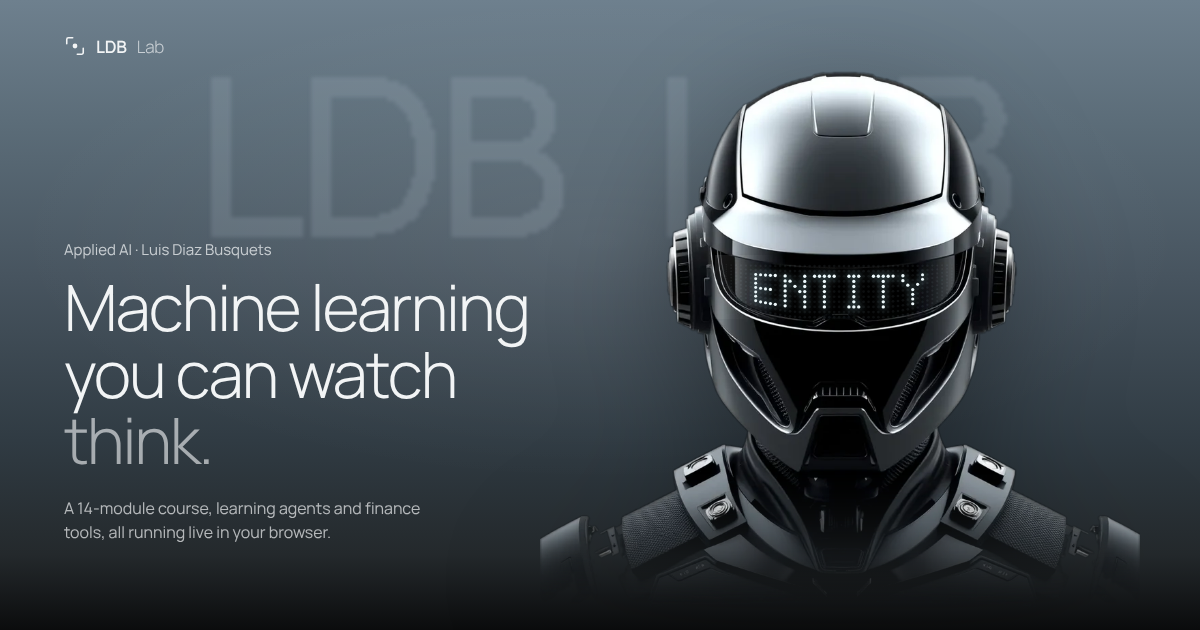
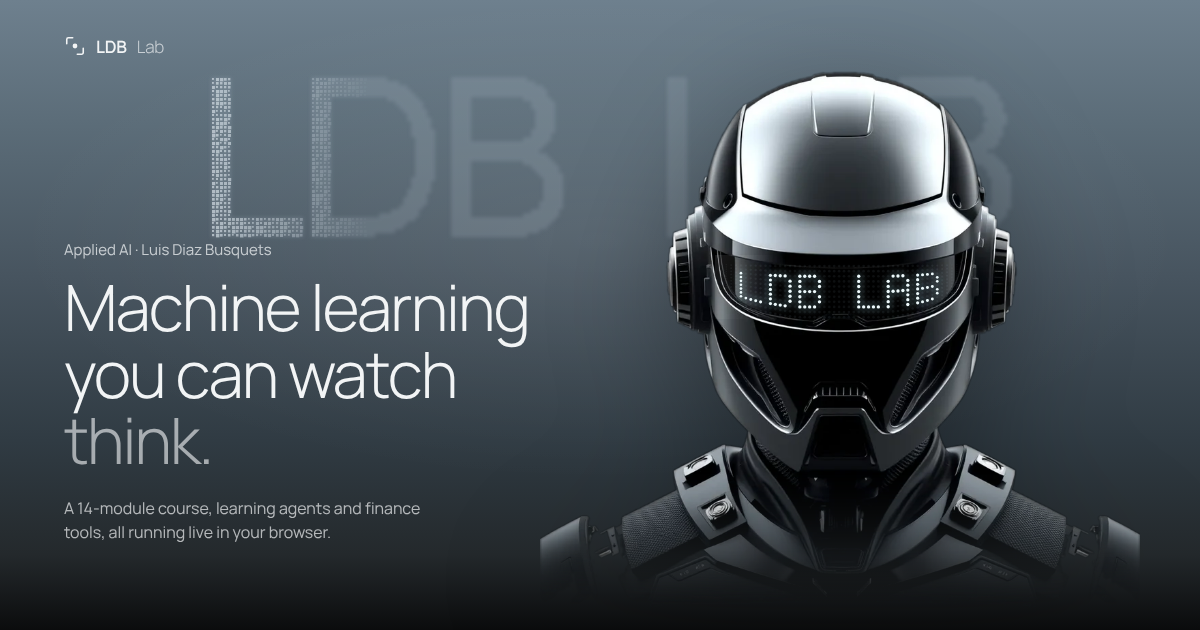
Add files via upload

Changed region(s): [[0.1542, 0.1206, 0.2775, 0.3921], [0.6167, 0.4222, 0.8017, 0.5127]]

diff --git a/index.html b/index.html
@@ -1016,25 +1016,18 @@ var lightQ = { get matches() { return document.documentElement.classList.contain
   }
   function put(c, r, v) { if (c >= 0 && c < COLS && r >= 0 && r < ROWS) { var i = r * COLS + c; if (v > grid[i]) grid[i] = v; } }
   function stamp(cols, c0, r0, v) { for (var i = 0; i < cols.length; i++) for (var r = 0; r < 7; r++) if (cols[i] >> r & 1) put(c0 + i, r0 + r, v); }
-  var WORD = textCols('LDB LAB'), NAME = textCols('ENTITY'), ONL = textCols('ONLINE'), TICK2 = textCols('APPLIED AI \u00b7 MODELS YOU CAN WATCH THINK');
+  var WORD = textCols('LDB LAB'), TICK2 = textCols('APPLIED AI \u00b7 MODELS YOU CAN WATCH THINK');
   function R0() { return Math.floor((ROWS - 7) / 2); }                                   /* text sits on the middle rows */
   var SPD = 26;                                                                          /* ticker speed, columns per second */
   function ticker(cols) { return { d: function () { return (COLS + cols.length) / SPD + .35; }, f: function (t) { stamp(cols, COLS - Math.floor(t * SPD), R0(), 1); } }; }
   /* the scenes, played in a loop; each one runs exactly as long as it needs to finish */
-  /* the intro plays once: ENTITY ONLINE, the name, the tagline, LDB LAB and a wipe; then the visor idles on a slow spectrum */
+  /* the intro plays once: the tagline, LDB LAB and a wipe; then the visor idles on a slow spectrum */
   var IDLE = { d: Infinity, f: function (t) {
       var env = Math.min(1, t * .8);
       for (var c = 0; c < COLS; c++) { var u = c / COLS, h = (.32 + .26 * Math.sin(u * 9 + t * 2.4) * Math.sin(u * 3.3 - t * 1.3) + .2 * Math.sin(u * 23 + t * 5.2)) * ROWS * env;
         for (var r = 0; r < Math.min(ROWS, Math.max(0, h)); r++) put(c, ROWS - 1 - r, r > ROWS * .62 ? 1 : .7); } } };
   var scenes = [
     { d: 1.6, f: function () {} },                                                       /* a beat of dark glass while the helmet fades in */
-    { d: 3.2, f: function (t) {                                                          /* ENTITY types itself in, centred, then holds */
-      var c0 = Math.round((COLS - NAME.length) / 2), shown = Math.min(NAME.length, Math.floor(t * 20));
-      stamp(NAME.slice(0, shown), c0, R0(), Math.min(1, (3.2 - t) * 3));
-      if (shown < NAME.length) for (var r = R0() - 1; r < R0() + 8; r++) put(c0 + shown, r, .9); } },
-    { d: 2.6, f: function (t) {                                                          /* ONLINE flickers on, like a status light */
-      var c0 = Math.round((COLS - ONL.length) / 2), on = t < .8 ? (Math.floor(t * 10) % 2 ? .2 : 1) : 1;
-      stamp(ONL, c0, R0(), on * Math.min(1, (2.6 - t) * 3)); } },
     ticker(TICK2),
     { d: function () { return WORD.length / 22 + 1.8 + 1.7; }, f: function (t) {   /* LDB LAB builds in, holds, then a bar wipes the whole visor left to right */
       var c0 = Math.round((COLS - WORD.length) / 2), shown = Math.min(WORD.length, Math.floor(t * 22)), tb = WORD.length / 22, hold = tb + 1.8;
@@ -1052,7 +1045,7 @@ var lightQ = { get matches() { return document.documentElement.classList.contain
     if (!grid) size();
     if (grid) {
       for (var i = 0; i < grid.length; i++) grid[i] *= .45;                                                       /* LEDs fade, not snap */
-      if (reduce) { stamp(NAME, Math.round((COLS - NAME.length) / 2), R0(), 1); }
+      if (reduce) { stamp(WORD, Math.round((COLS - WORD.length) / 2), R0(), 1); }
       else { if (st > dur(scenes[si]) && si < scenes.length - 1) { st = 0; si++; } scenes[si].f(st); }
       draw(now / 1000);
     }
